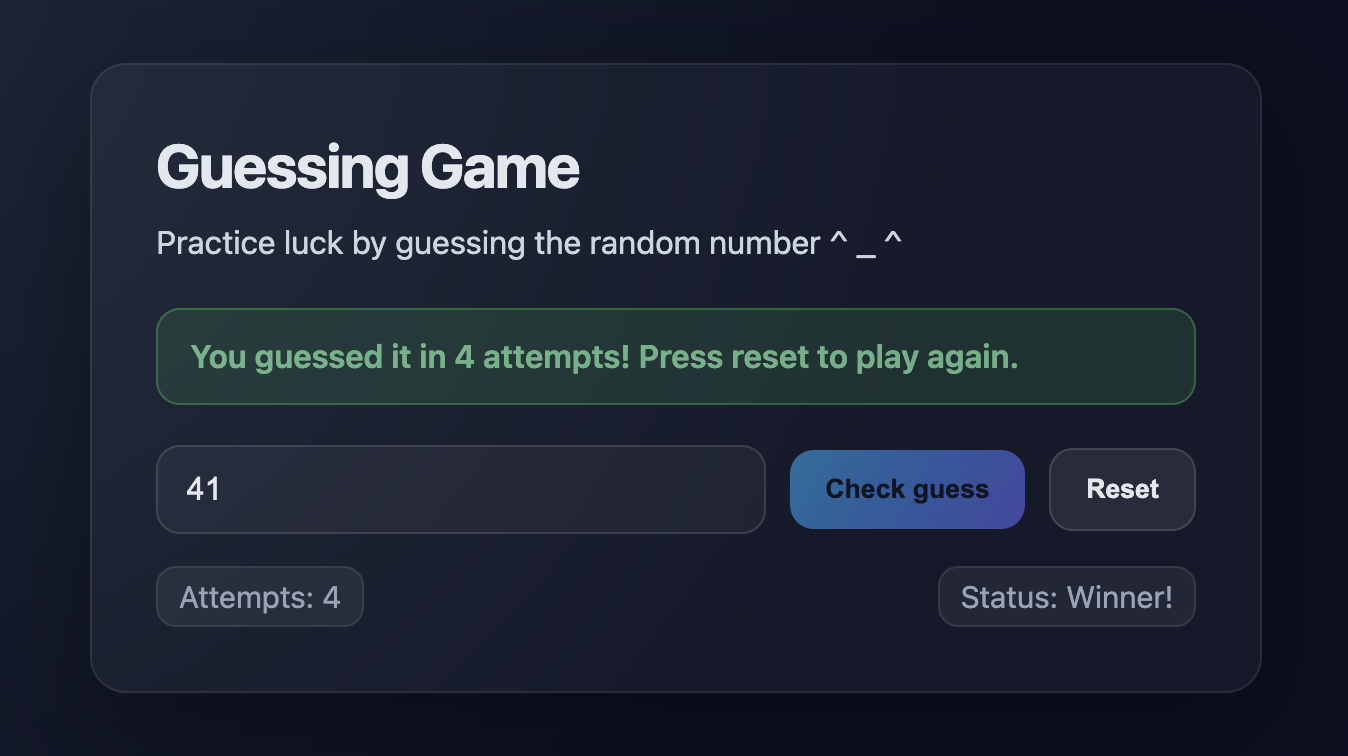
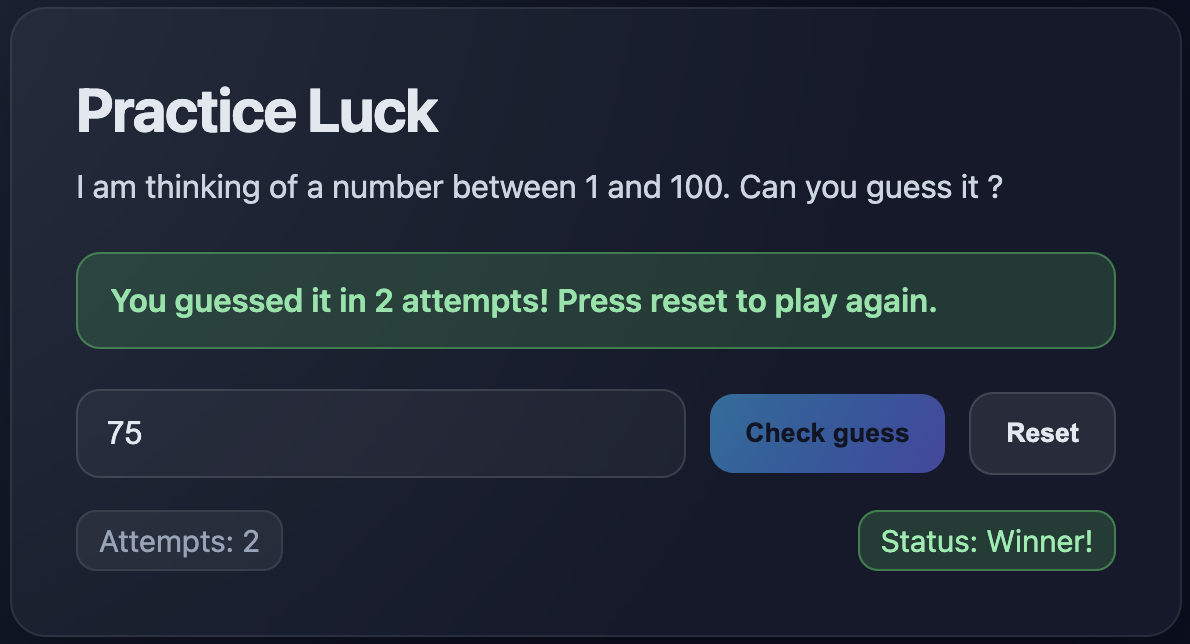
final touches

diff --git a/src/lib.rs b/src/lib.rs
@@ -110,7 +110,7 @@ fn GuessingGame() -> impl IntoView {
         }
 
         main.page.won {
-            animation: celebrate 2s ease-in-out;
+            animation: celebrate 0.8s cubic-bezier(0.34, 1.56, 0.64, 1);
         }
 
         section.card {
@@ -151,7 +151,7 @@ fn GuessingGame() -> impl IntoView {
             background: rgba(34, 197, 94, 0.2);
             border: 1px solid rgba(34, 197, 94, 0.5);
             color: #86efac;
-            animation: pulse 1s infinite;
+            animation: pulse 0.6s ease-in-out infinite;
         }
 
         @keyframes pulse {

diff --git a/README.md b/README.md
@@ -1,10 +1,18 @@
-# Guessing Game - Leptos WebAssembly UI
+# Practice Luck 🎲
 
-Interactive number guessing game built with Rust and Leptos, compiled to WebAssembly and running in your browser.
+A beautiful number guessing game built entirely in Rust. Experience the joy of full-stack type safety with zero context switching between languages.
 
 ![Game Won](./docs/won_game.png)
 
-Learn Rust and Leptos by following the [Rust Language Book](https://doc.rust-lang.org/book/ch02-00-guessing-game-tutorial.html) with [Leptos](https://leptos.dev/) capabilities!
+## Why Leptos?
+
+**Reactive & Performant** - Fine-grained reactivity means only the DOM elements that change actually re-render. Lightning-fast UIs with minimal overhead, inspired by frameworks like SolidJS.
+
+**WebAssembly Speed** - Compiled to WebAssembly for near-native performance in the browser. Rust's memory safety guarantees and zero-cost abstractions, with zero garbage collection overhead.
+
+**Full-Stack Rust** - Write your entire application in one language. Share code between client and server, maintain type safety everywhere, and eliminate context switching forever.
+
+Learn Rust fundamentals through this [classic guessing game](https://doc.rust-lang.org/book/ch02-00-guessing-game-tutorial.html), now enhanced with [Leptos](https://leptos.dev/) magic!
 
 ## How to Play
 
@@ -27,12 +35,11 @@ python3 -m http.server 8080
 
 Open `http://localhost:8080` in your browser.
 
-
 ## Development
 
 **Project Structure:**
 
-```
+```text
 ├── Cargo.toml          # Rust dependencies
 ├── src/lib.rs          # Game code (compiled to WASM)
 ├── index.html          # Browser entry point
@@ -40,8 +47,8 @@ Open `http://localhost:8080` in your browser.
 └── pkg/                # Generated WASM files
 ```
 
-
 **Making changes:**
+
 1. Edit `src/`
 2. Rebuild: `wasm-pack build --target web --dev`
 3. Refresh browser
@@ -51,12 +58,14 @@ Open `http://localhost:8080` in your browser.
 ## Troubleshooting
 
 **Port 8080 in use?**
+
 ```bash
 lsof -i :8080 | grep -v COMMAND | awk '{print $2}' | xargs kill -9
 python3 -m http.server 8080
 ```
 
 **Build fails?**
+
 ```bash
 rustup target add wasm32-unknown-unknown
 cargo clean
@@ -67,5 +76,4 @@ wasm-pack build --target web --dev
 
 ---
 
-
-**Made with Rust 🦀 & Leptos**
+Made with Rust 🦀 & Leptos
